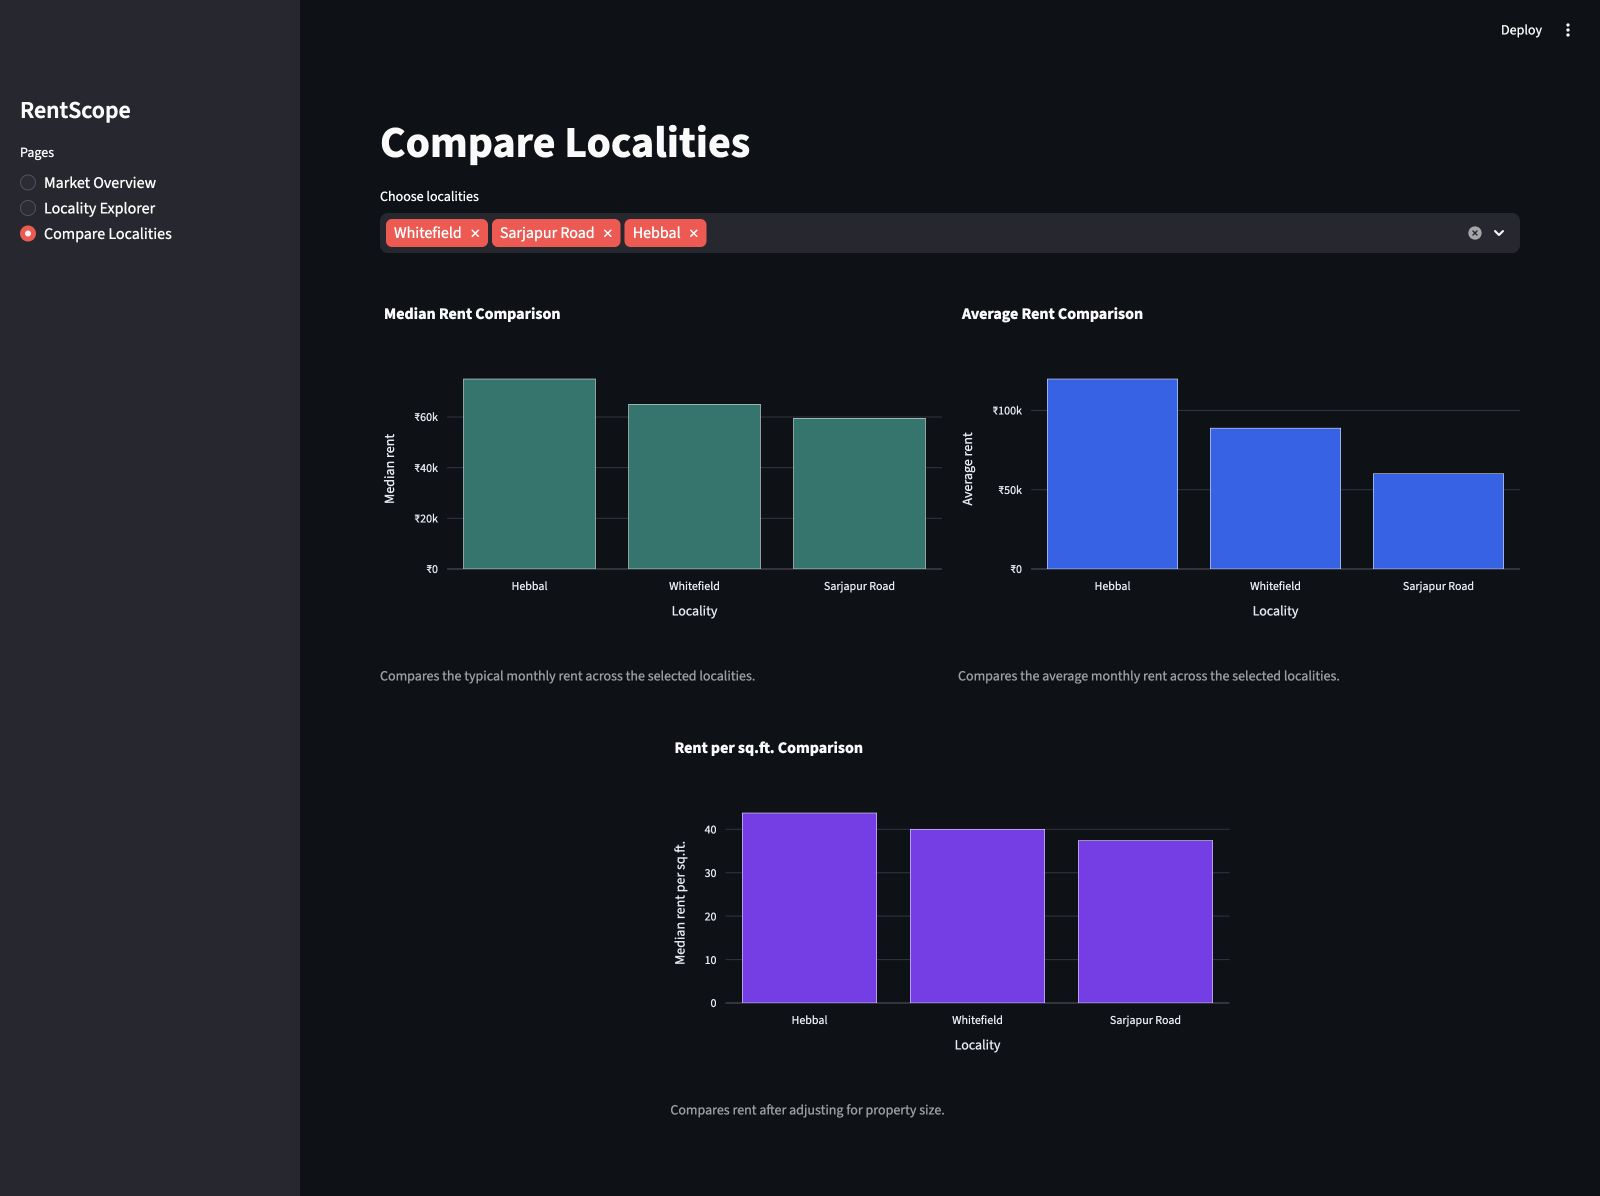
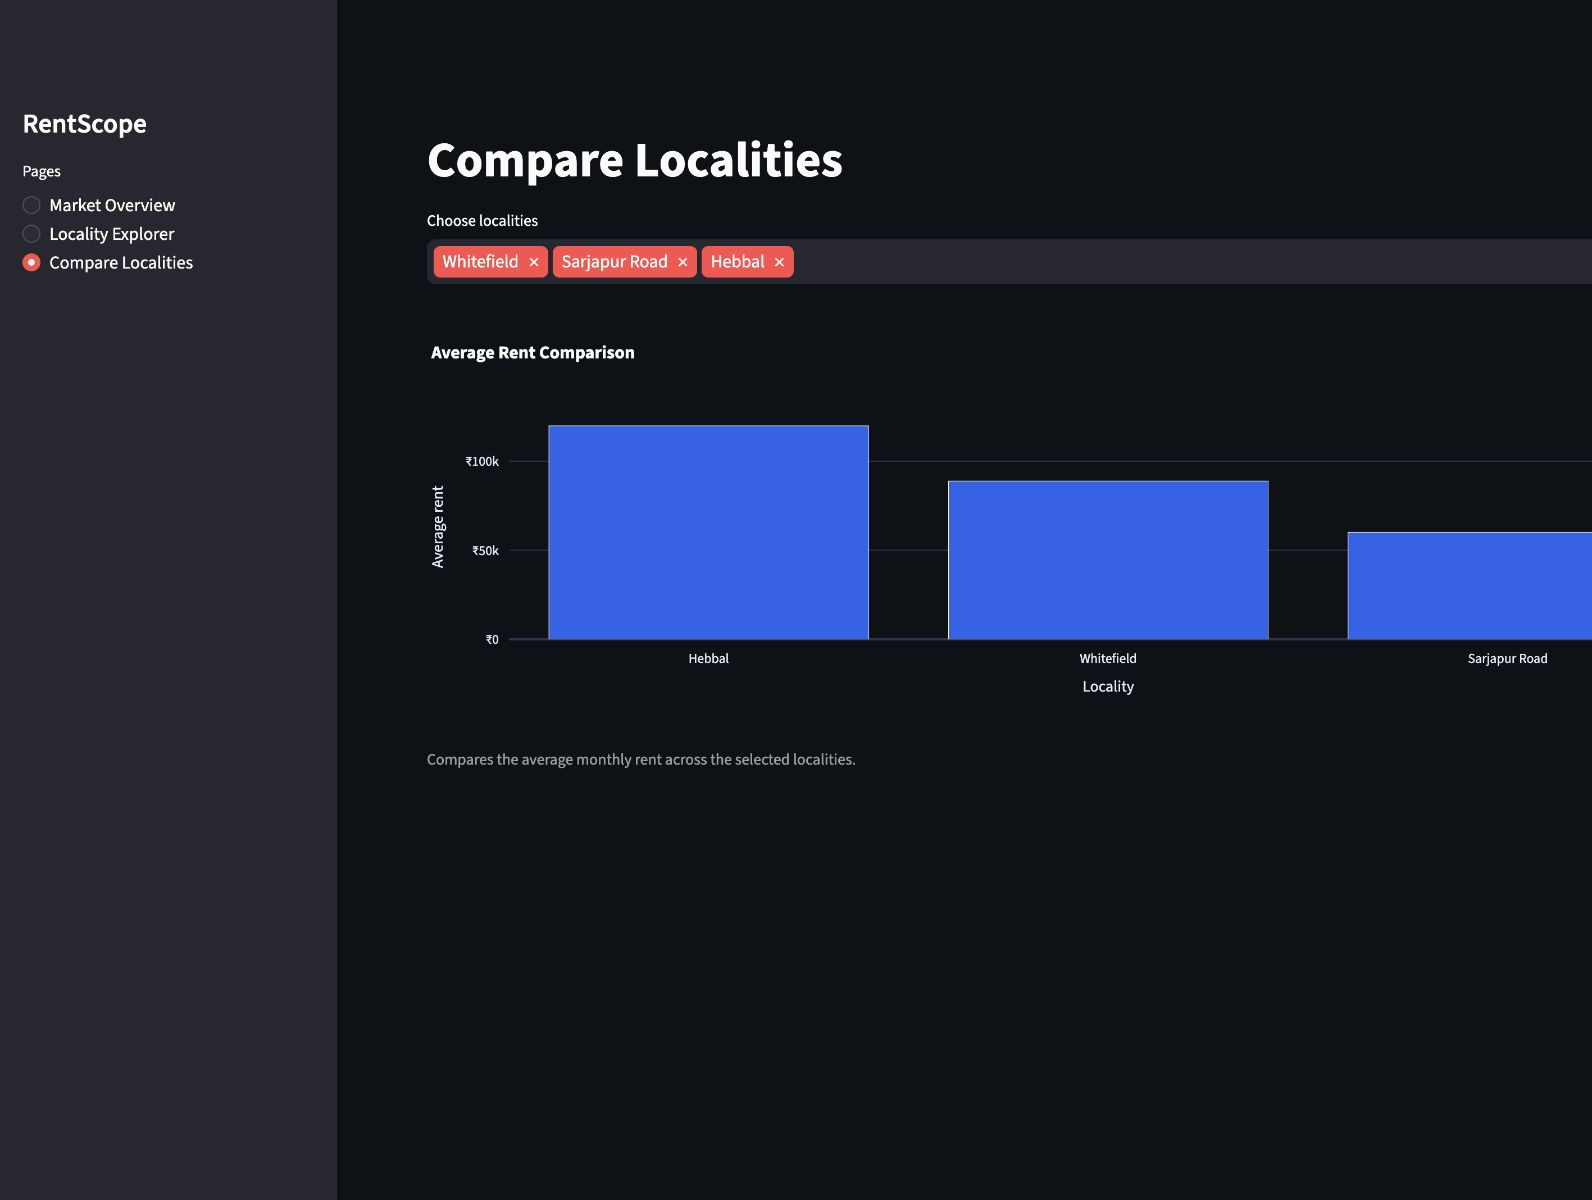
Simplify locality comparison

diff --git a/app.py b/app.py
@@ -127,32 +127,11 @@ def compare_localities(localities: pd.DataFrame) -> None:
 
     selected_metrics = localities[localities["locality"].isin(selected)]
 
-    left, right = st.columns(2)
-    with left:
-        fig = px.bar(selected_metrics, x="locality", y="median_rent", title="Median Rent Comparison")
-        fig.update_traces(marker_color="#0f766e")
-        fig.update_xaxes(title="Locality")
-        fig.update_yaxes(title="Median rent", tickprefix="₹")
-        show_chart(fig, "Compares the typical monthly rent across the selected localities.")
-    with right:
-        fig = px.bar(selected_metrics, x="locality", y="average_rent", title="Average Rent Comparison")
-        fig.update_traces(marker_color="#2563eb")
-        fig.update_xaxes(title="Locality")
-        fig.update_yaxes(title="Average rent", tickprefix="₹")
-        show_chart(fig, "Compares the average monthly rent across the selected localities.")
-
-    _, middle, _ = st.columns([1, 2, 1])
-    with middle:
-        fig = px.bar(
-            selected_metrics,
-            x="locality",
-            y="median_rent_per_sqft",
-            title="Rent per sq.ft. Comparison",
-        )
-        fig.update_traces(marker_color="#7c3aed")
-        fig.update_xaxes(title="Locality")
-        fig.update_yaxes(title="Median rent per sq.ft.")
-        show_chart(fig, "Compares rent after adjusting for property size.")
+    fig = px.bar(selected_metrics, x="locality", y="average_rent", title="Average Rent Comparison")
+    fig.update_traces(marker_color="#2563eb")
+    fig.update_xaxes(title="Locality")
+    fig.update_yaxes(title="Average rent", tickprefix="₹")
+    show_chart(fig, "Compares the average monthly rent across the selected localities.")
 
 
 def main() -> None:

diff --git a/README.md b/README.md
@@ -14,7 +14,6 @@ RentScope answers simple rental market questions:
 - How does rent change by BHK?
 - Which localities are more expensive?
 - How does furnishing type affect rent?
-- Which localities have better rent per square foot?
 
 ---
 
@@ -25,7 +24,6 @@ RentScope answers simple rental market questions:
 | Data cleaning | Cleans raw rental listings using Pandas |
 | Bengaluru filtering | Keeps only Bengaluru rental records |
 | Outlier handling | Removes unusual rent-per-square-foot values using IQR |
-| Rent per sq.ft. | Calculates `rent_per_sqft = rent / area` |
 | PostgreSQL storage | Stores cleaned listings in a database table |
 | SQL analysis | Uses SQL queries for dashboard metrics |
 | Locality analysis | Compares rent across localities |
@@ -132,7 +130,6 @@ Includes:
 - total listings
 - median rent
 - average rent
-- median rent per square foot
 - total localities
 - rent distribution
 - average rent by BHK
@@ -158,9 +155,7 @@ Lets the user compare selected localities.
 
 Charts:
 
-- median rent comparison
 - average rent comparison
-- rent per square foot comparison
 
 ---
 
